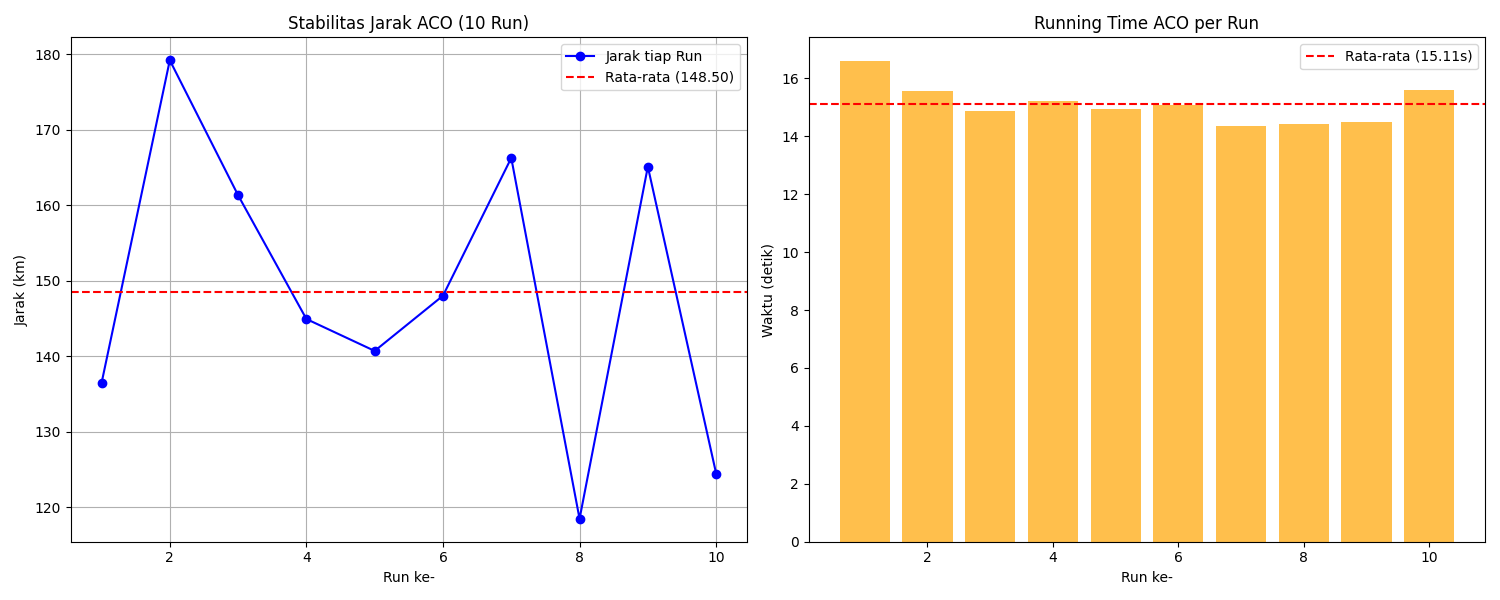
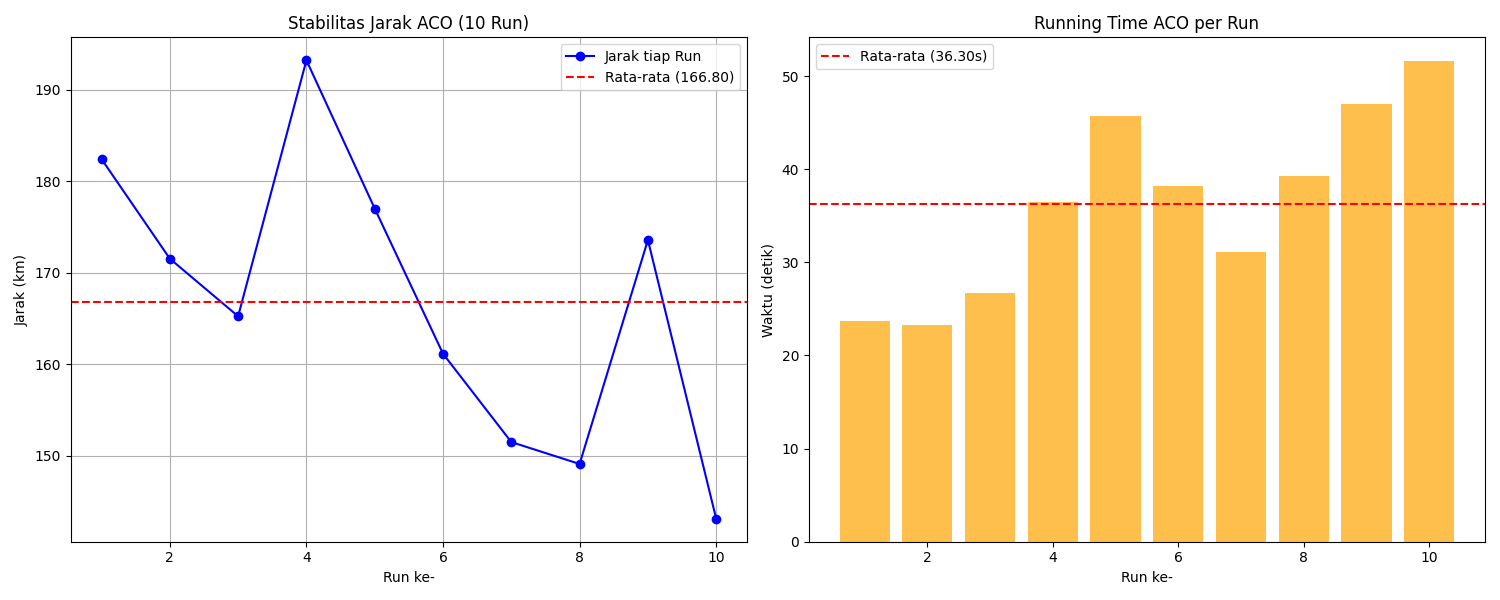
Mario : Add

diff --git a/discrete_pso.py b/discrete_pso.py
@@ -235,8 +235,6 @@ class PSOAlgorithm(GeneticAlgorithm):
                 p.position = self.apply_swaps(p.position, ss_gbest, prob_gbest)
 
                 if random.random() < 0.1:
-                    # Mutasi acak tapi jangan ganggu indeks pertama (kota start) jika ingin konsisten
-                    # Tapi PSO biasanya bebas, yang penting evaluasi rutenya tetap efisien
                     idx1, idx2 = random.sample(range(len(p.position)), 2)
                     p.position[idx1], p.position[idx2] = p.position[idx2], p.position[idx1]
 